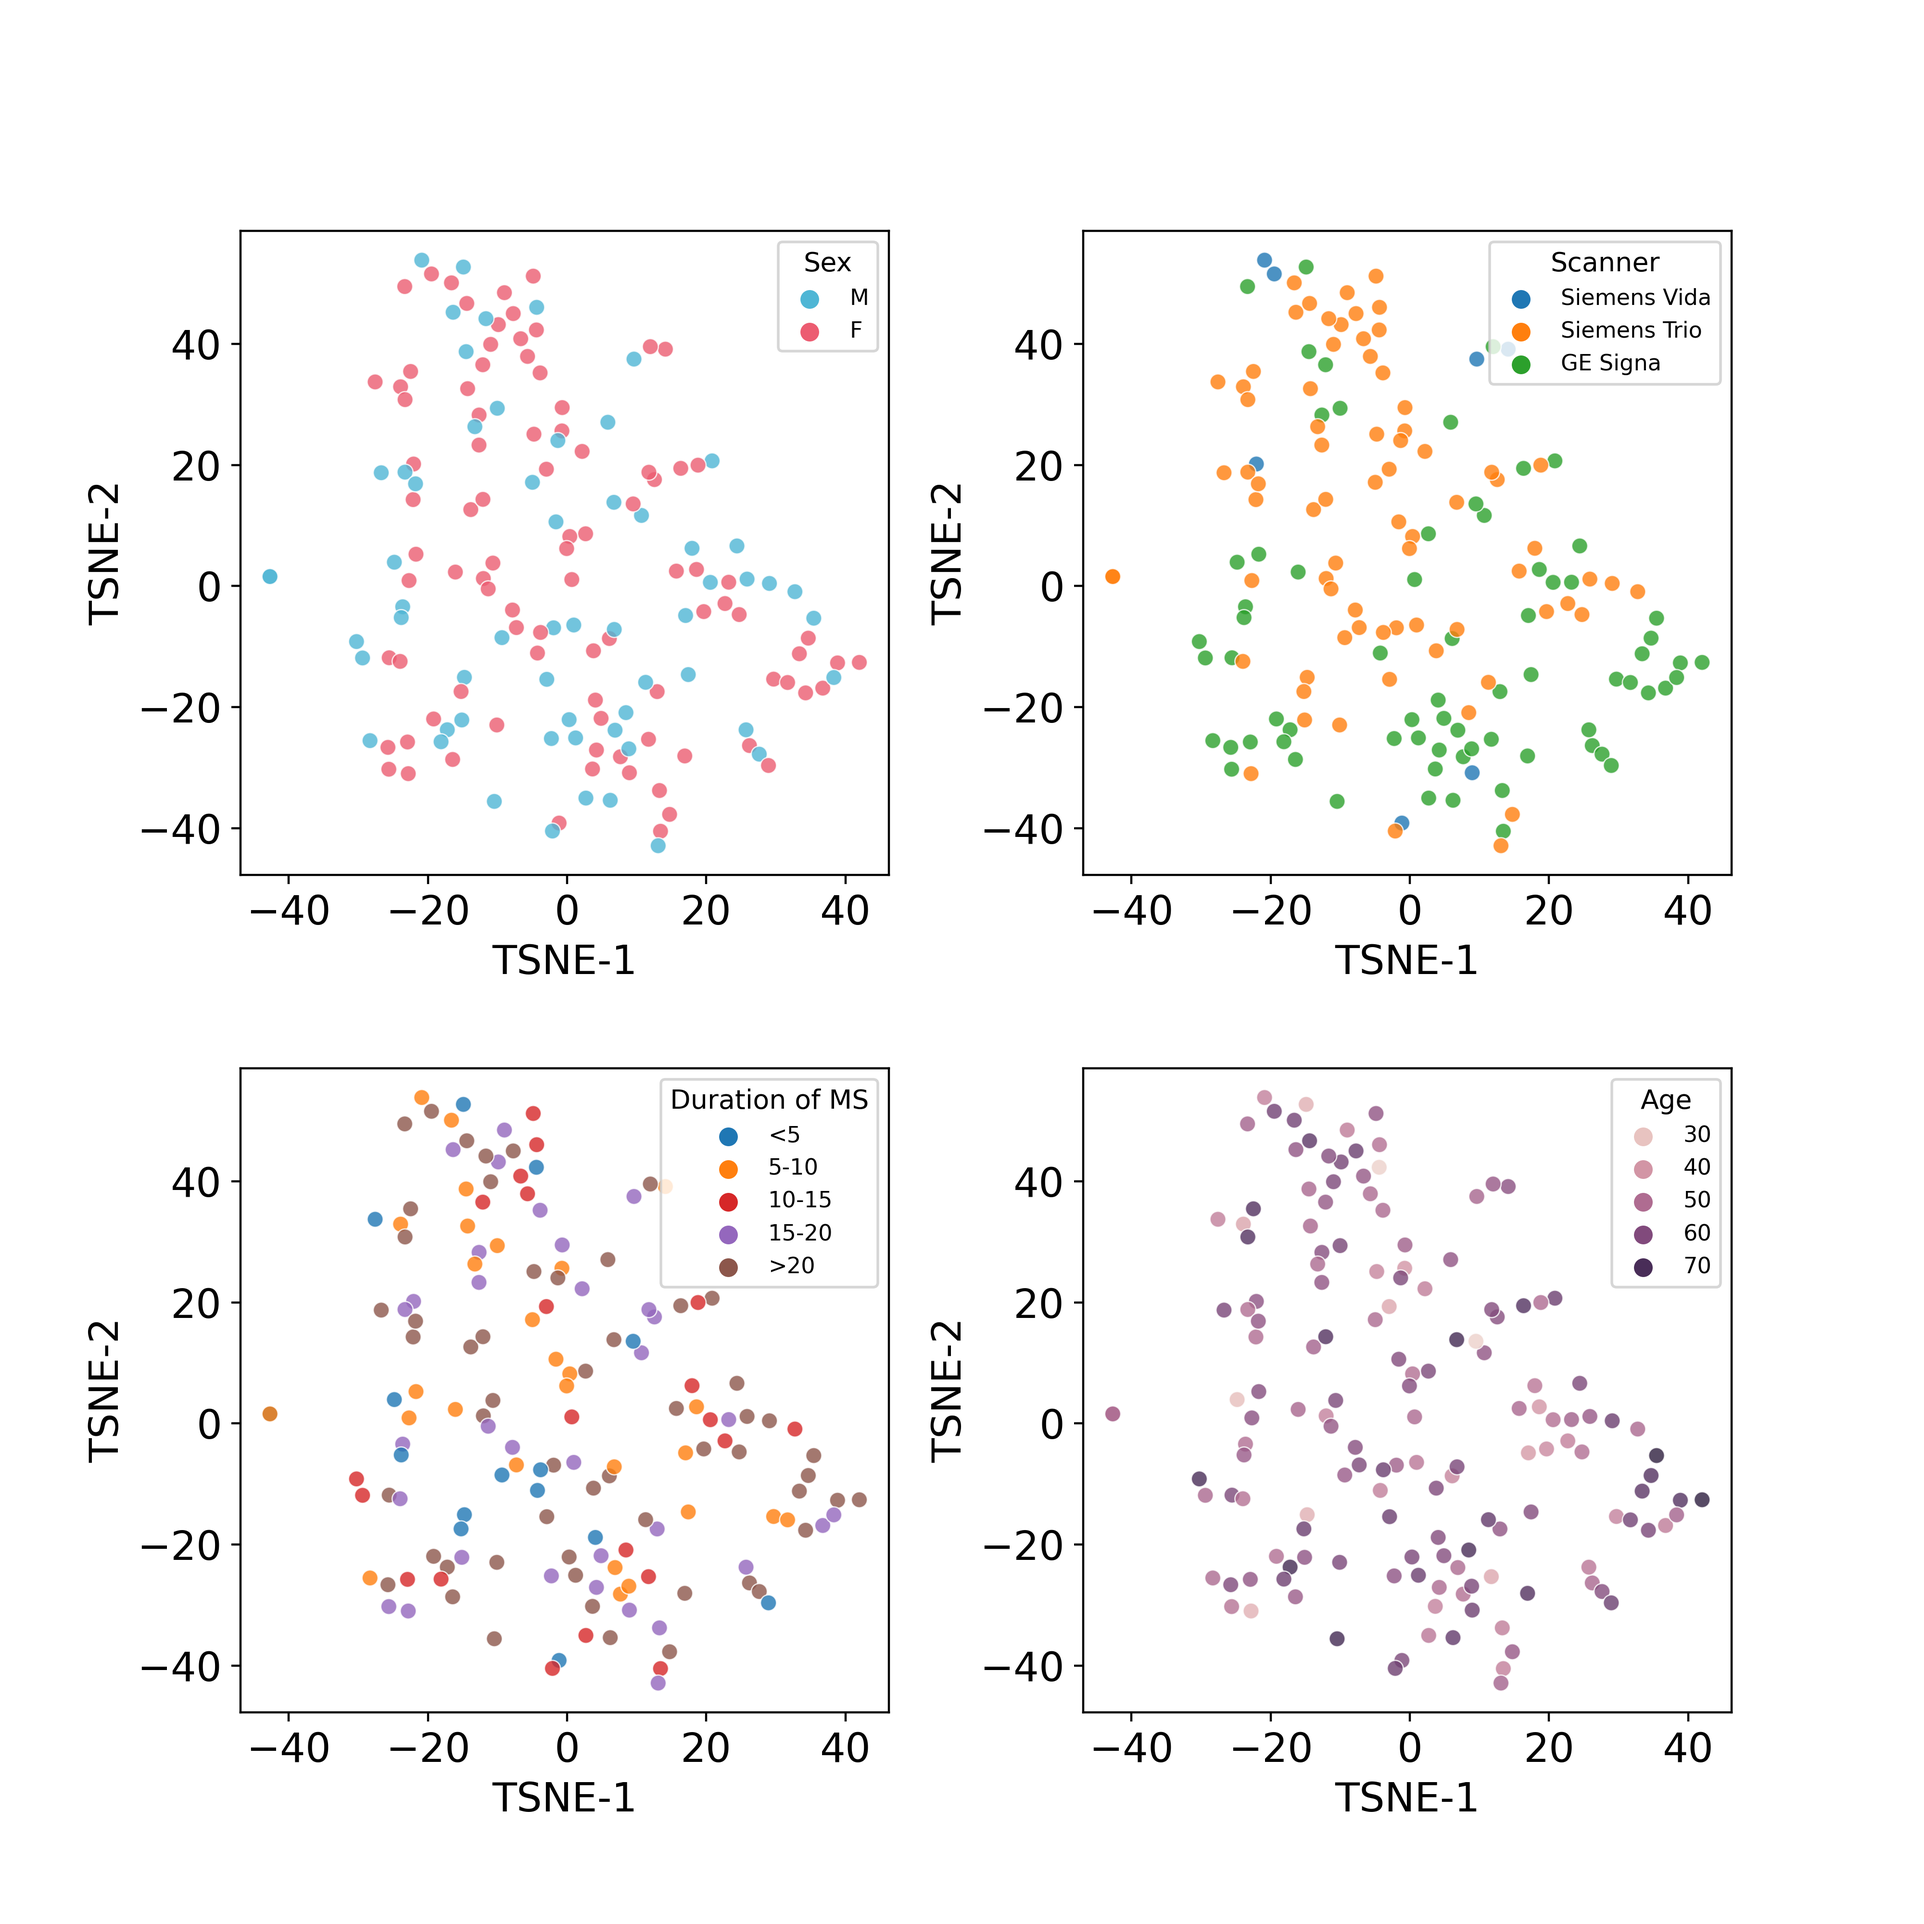
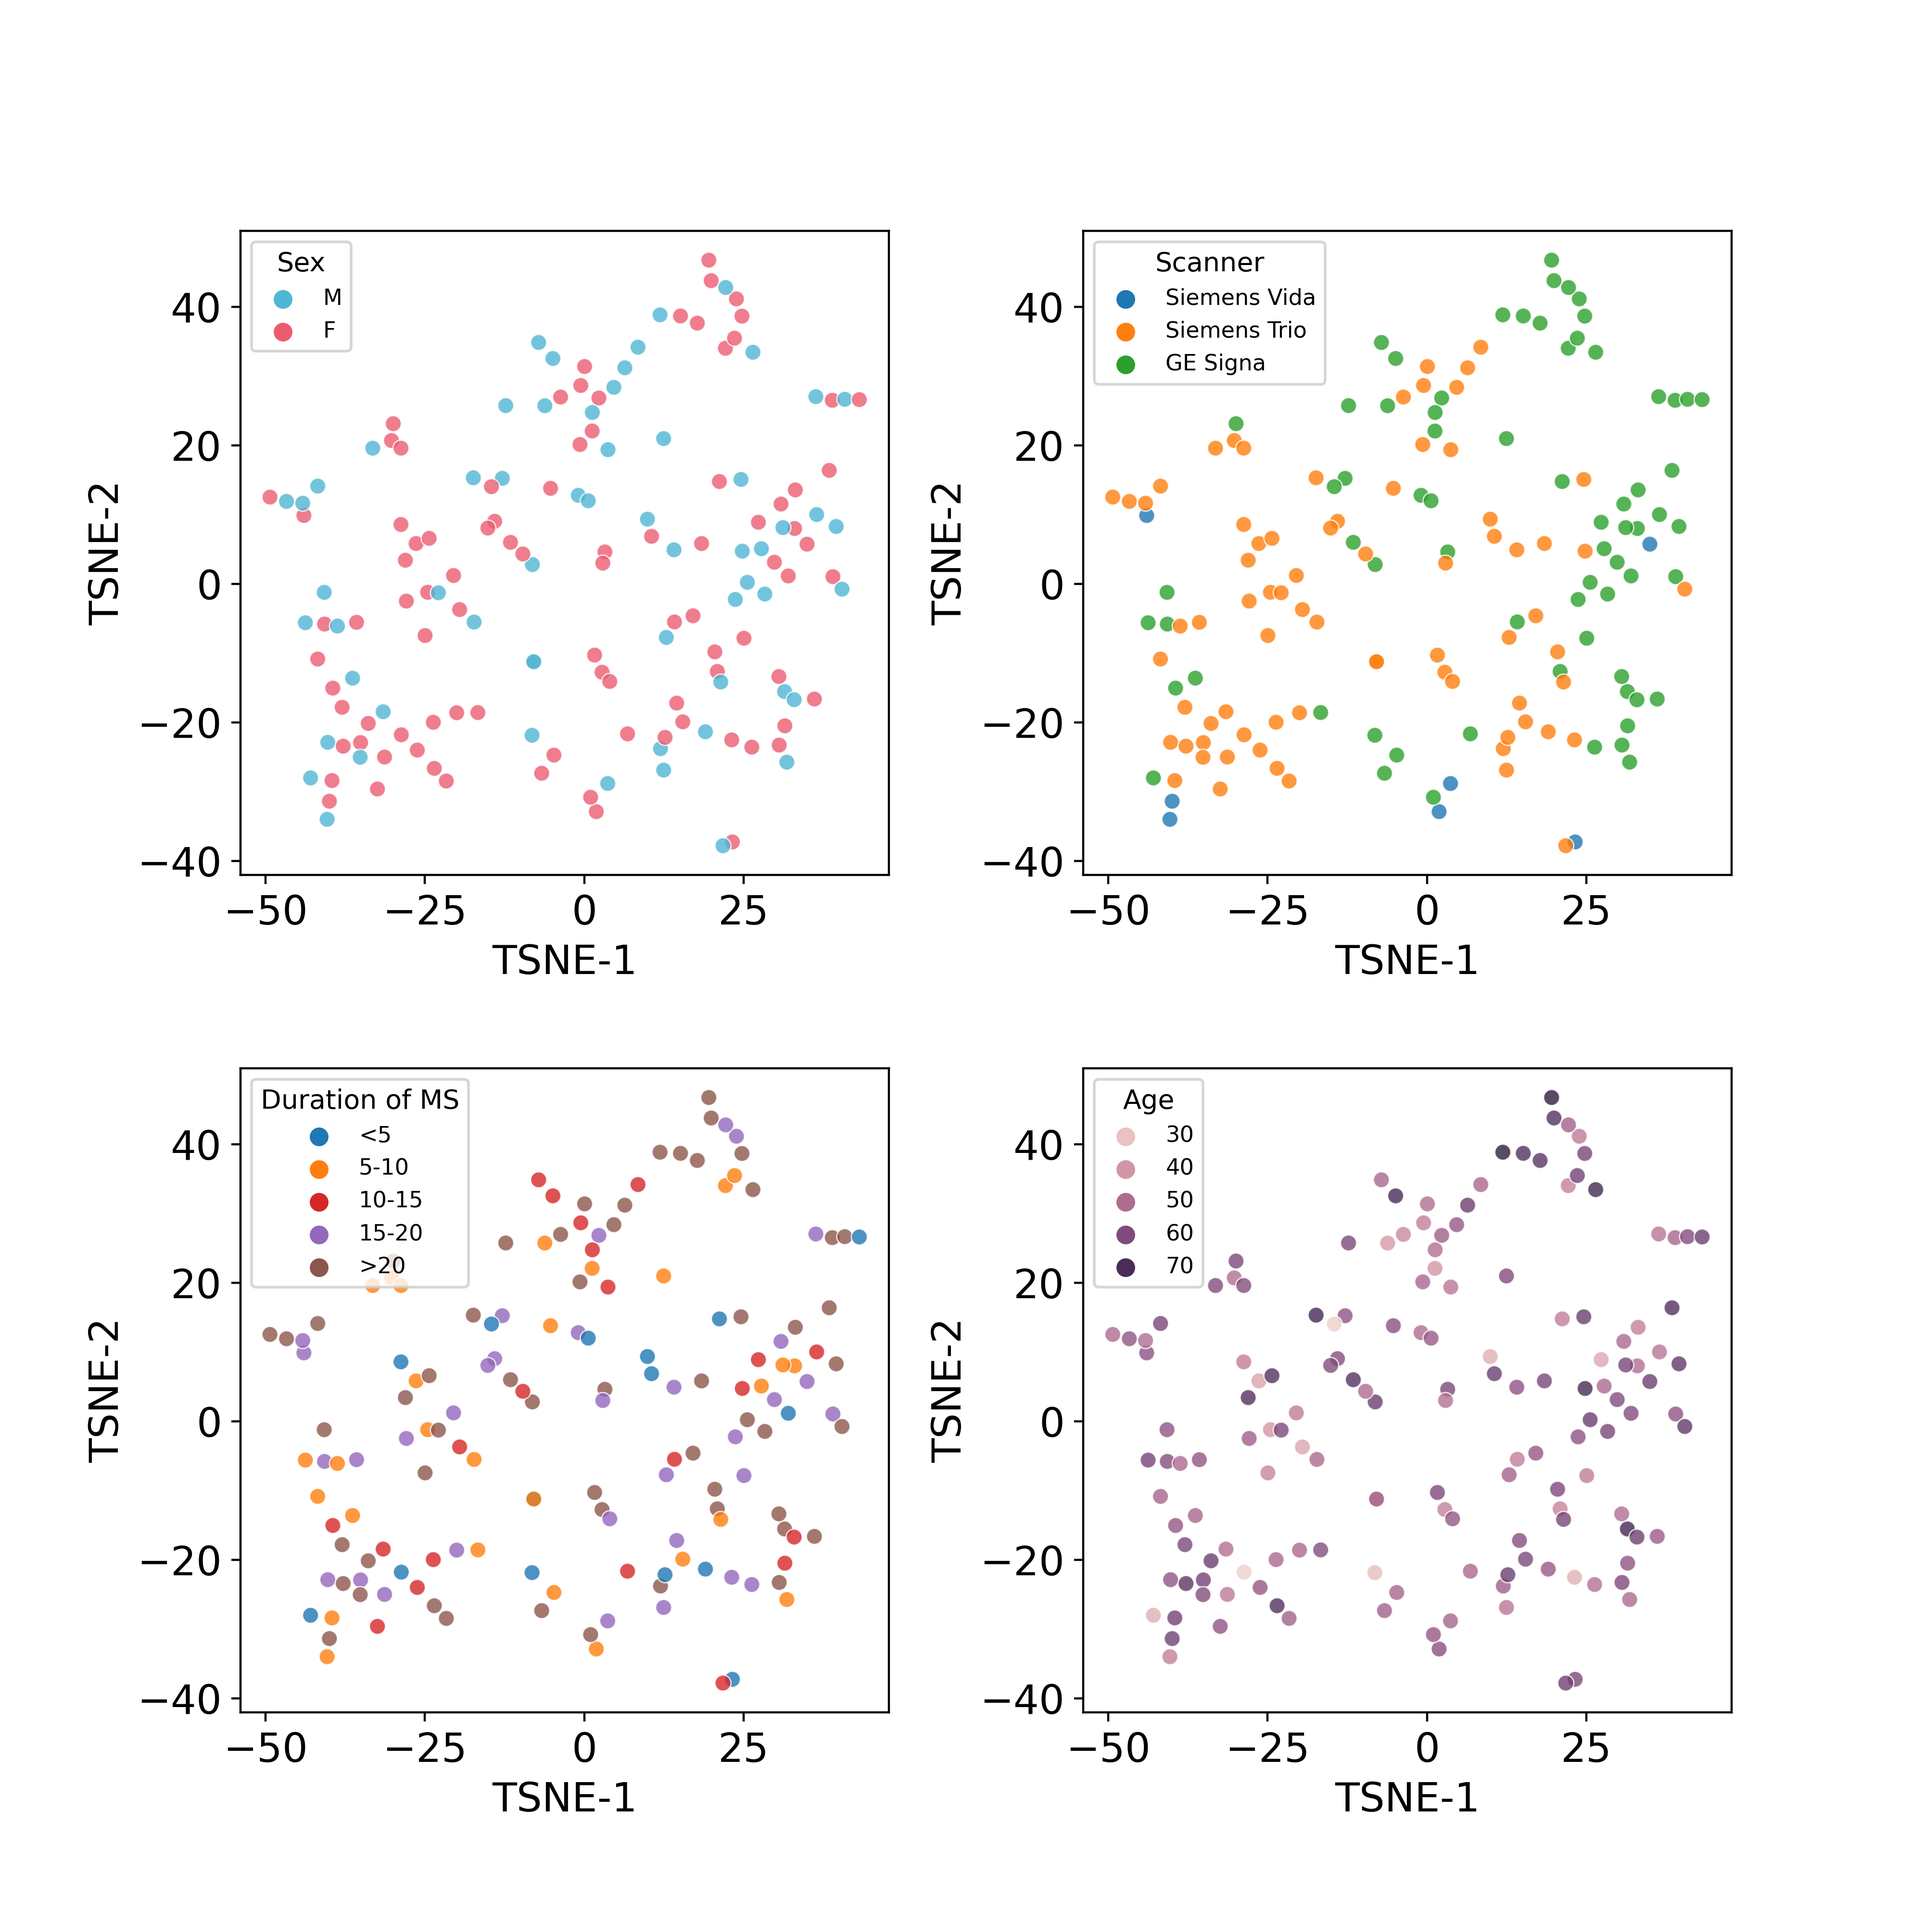
updated tsne

diff --git a/tsne.py b/tsne.py
@@ -48,7 +48,7 @@ def main():
     morphological_data = morphological_data.dropna(axis=1, how='any')
     # configure tsne model
     print("initializing...")
-    tsne = TSNE(n_components=2, perplexity=5, random_state=42)
+    tsne = TSNE(n_components=2, perplexity=4, random_state=20)
     tsne_data = tsne.fit_transform(morphological_data)
 
     # create dataframe
@@ -65,7 +65,7 @@ def main():
     # plot
     plt.figure(figsize=(8,8))
     sns.scatterplot(tsne_df, x="TSNE-1", y="TSNE-2", hue='diagnosis', sizes=10, alpha=0.8)
-    plt.legend(loc='upper right', title='Diagnosis', fontsize='medium')
+    plt.legend(loc='upper left', title='Diagnosis', fontsize='medium')
     plt.tick_params(axis='both', which='major', labelsize=15)
     plt.xlabel('TSNE-1', fontsize=15)
     plt.ylabel('TSNE-2', fontsize=15)
@@ -75,23 +75,23 @@ def main():
     fig.subplots_adjust(hspace=0.3, wspace=0.3)
 
     sns.scatterplot(ax=ax[1, 0], data=tsne_df, x="TSNE-1", y="TSNE-2", hue='duration_categories', hue_order = ['<5', '5-10', '10-15', '10-15', '15-20', '>20'], sizes=5, alpha=0.8)
-    ax[1, 0].legend(loc='upper right', title='Duration of MS', fontsize='small')
+    ax[1, 0].legend(loc='upper left', title='Duration of MS', fontsize='small')
     ax[1, 0].tick_params(axis='both', which='major', labelsize=15)
     # change size of axis subtitles TSNE-1 and TSNE-2
     ax[1, 0].set_xlabel('TSNE-1', fontsize=15)
     ax[1, 0].set_ylabel('TSNE-2', fontsize=15)
     sns.scatterplot(ax=ax[0, 0], data=tsne_df, x="TSNE-1", y="TSNE-2", hue='sex', palette=['#4FB6D5', '#EC5C71'], sizes=5, alpha=0.8)
-    ax[0, 0].legend(loc='upper right', title='Sex', fontsize='small')
+    ax[0, 0].legend(loc='upper left', title='Sex', fontsize='small')
     ax[0, 0].tick_params(axis='both', which='major', labelsize=15)
     ax[0, 0].set_xlabel('TSNE-1', fontsize=15)
     ax[0, 0].set_ylabel('TSNE-2', fontsize=15)
     sns.scatterplot(ax=ax[0, 1], data=tsne_df, x="TSNE-1", y="TSNE-2", hue='scanner', sizes=5, alpha=0.8)
-    ax[0, 1].legend(loc='upper right', title='Scanner', fontsize='small')
+    ax[0, 1].legend(loc='upper left', title='Scanner', fontsize='small')
     ax[0, 1].tick_params(axis='both', which='major', labelsize=15)
     ax[0, 1].set_xlabel('TSNE-1', fontsize=15)
     ax[0, 1].set_ylabel('TSNE-2', fontsize=15)
     sns.scatterplot(ax=ax[1, 1], data=tsne_df, x="TSNE-1", y="TSNE-2", hue='age', sizes=5, alpha=0.8)
-    ax[1, 1].legend(loc='upper right', title='Age', fontsize='small')
+    ax[1, 1].legend(loc='upper left', title='Age', fontsize='small')
     ax[1, 1].tick_params(axis='both', which='major', labelsize=15)
     ax[1, 1].set_xlabel('TSNE-1', fontsize=15)
     ax[1, 1].set_ylabel('TSNE-2', fontsize=15)
